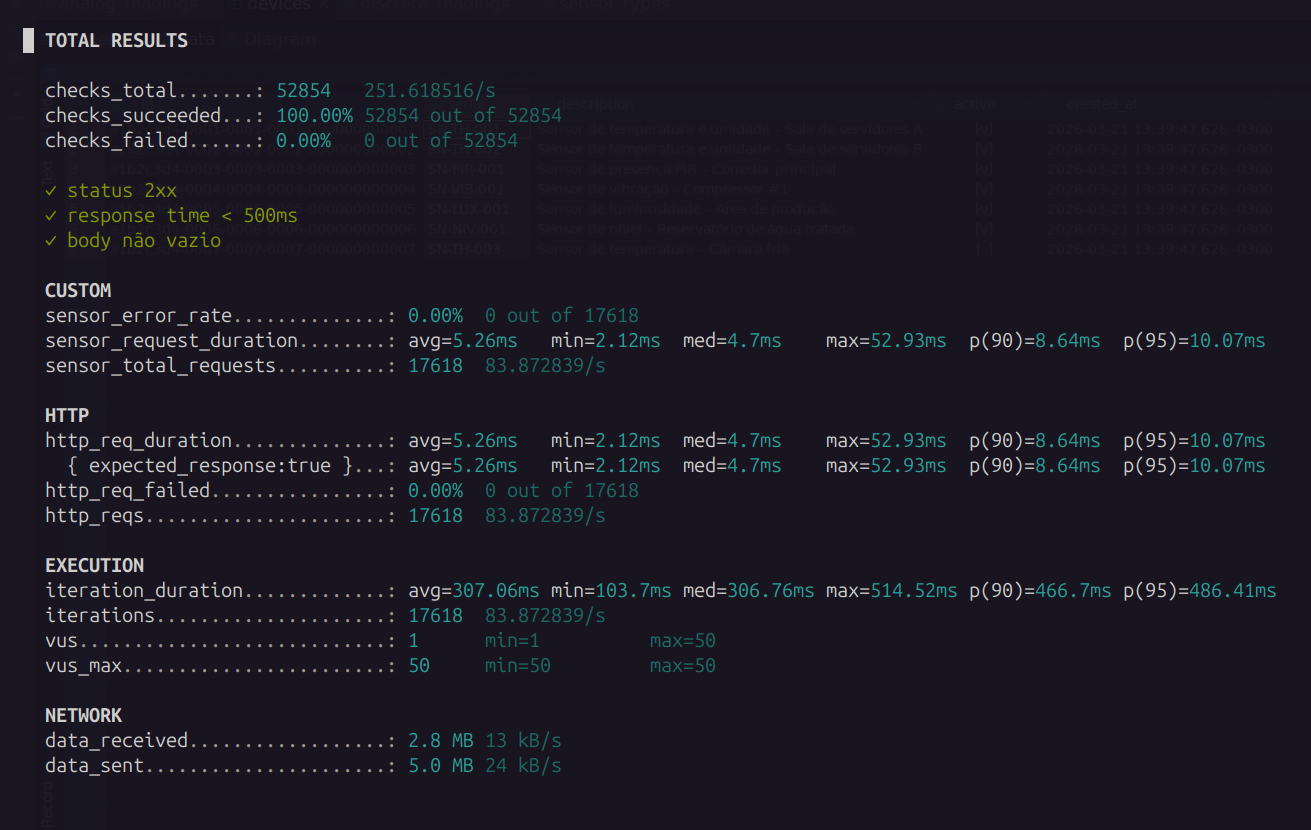
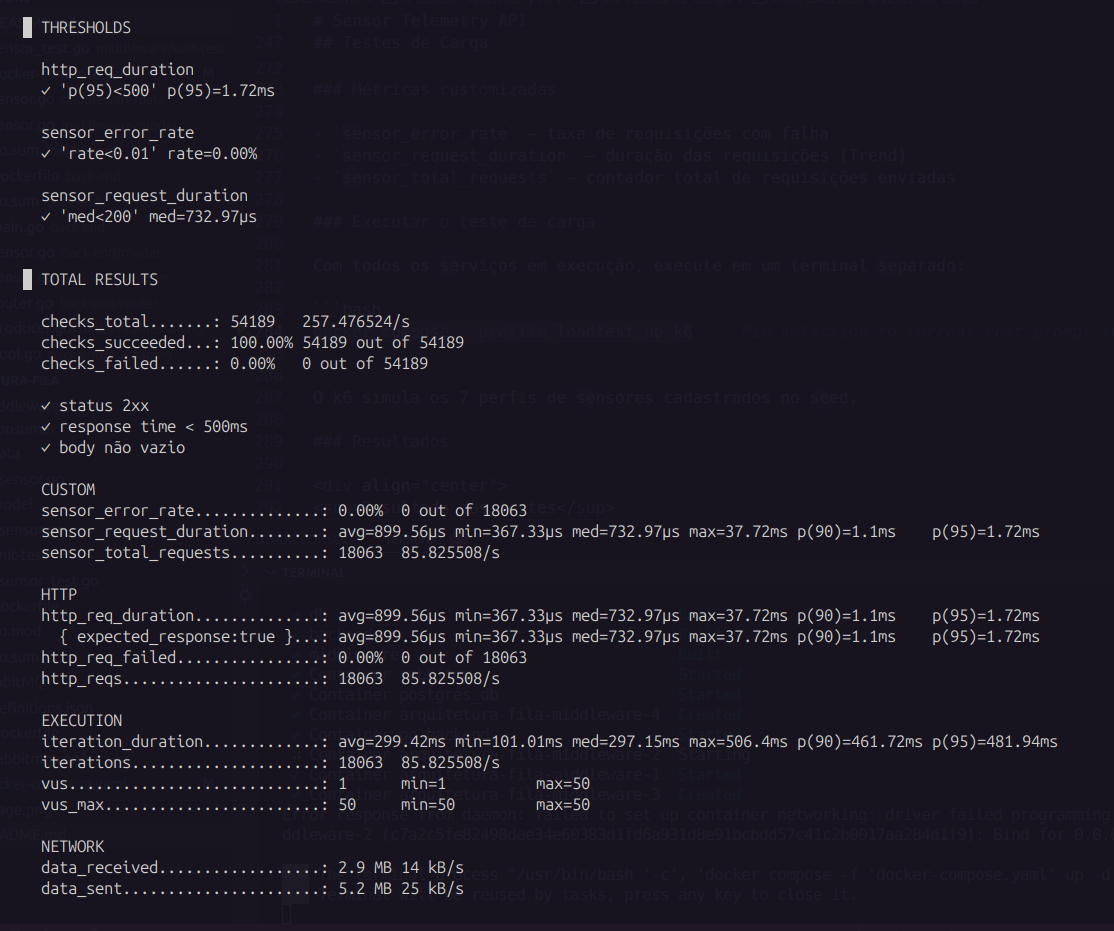
docs: adiciona resultado do teste de carga

Changed region(s): [[0.0, 0.0, 0.9767, 0.9639], [0.1831, 0.8434, 0.2442, 0.8735]]

diff --git a/README.md b/README.md
@@ -286,13 +286,77 @@ docker compose --profile loadtest up k6
 
 O k6 simula os 7 perfis de sensores cadastrados no seed.
 
-### Resultados
+### Resultado de Teste de Carga — k6
+
+#### Thresholds (Critérios de Aceitação)
+
+| Threshold | Critério | Resultado | Status |
+|---|---|---|---|
+| `http_req_duration` p(95) | < 500ms | **1,72ms** | ✅ Aprovado |
+| `sensor_error_rate` | < 1% | **0,00%** | ✅ Aprovado |
+| `sensor_request_duration` mediana | < 200ms | **732,97µs** | ✅ Aprovado |
+
+**Todos os thresholds foram aprovados.**
+
+#### Checks (Validações por Requisição)
+
+| Validação | Resultado |
+|---|---|
+| `status 2xx` | ✅ 100% |
+| `response time < 500ms` | ✅ 100% |
+| `body não vazio` | ✅ 100% |
+
+- **checks_total:** 54.189 (3 checks × 18.063 requisições)
+- **checks_succeeded:** 54.189 — **100,00%**
+- **checks_failed:** 0 — **0,00%**
+
+#### Métricas de Latência HTTP
+
+| Métrica | Valor |
+|---|---|
+| Média (avg) | 899,56µs |
+| Mínimo (min) | 367,33µs |
+| Mediana (med) | 732,97µs |
+| Máximo (max) | 37,72ms |
+| Percentil 90 (p90) | 1,1ms |
+| Percentil 95 (p95) | 1,72ms |
+
+#### Métricas Customizadas
+
+| Métrica | Valor |
+|---|---|
+| `sensor_error_rate` | 0,00% (0 erros em 18.063) |
+| `sensor_request_duration` (avg) | 899,56µs |
+| `sensor_request_duration` (med) | 732,97µs |
+| `sensor_total_requests` | 18.063 |
+
+#### Execução
+
+| Métrica | Valor |
+|---|---|
+| Duração por iteração (avg) | 299,42ms |
+| Duração por iteração (med) | 297,15ms |
+| Duração por iteração (max) | 506,4ms |
+| Duração por iteração (p95) | 481,94ms |
+| Total de iterações | 18.063 |
+| Throughput | 85,83 iterações/s |
+
+#### Rede
+
+| Métrica | Valor |
+|---|---|
+| Dados recebidos | 2,9 MB (14 kB/s) |
+| Dados enviados | 5,2 MB (25 kB/s) |
 
 <div align="center">
 <sup>Resultado dos testes</sup>
 <img src="image.png">
 <sup>Print dos resultados.</sup>
 </div>
+
+#### Conclusão
+
+A arquitetura demonstrou alta escalabilidade e desempenho nos testes de carga. Com 50 usuários simultâneos por 210 segundos, o sistema manteve latência abaixo dos limites definidos, graças ao desacoplamento proporcionado pela fila de mensagens. Não houve falhas nas mais de 18 mil requisições, e o throughput permaneceu estável, sem sinais de saturação do backend. 
 
 ## Testes Unitários
 
